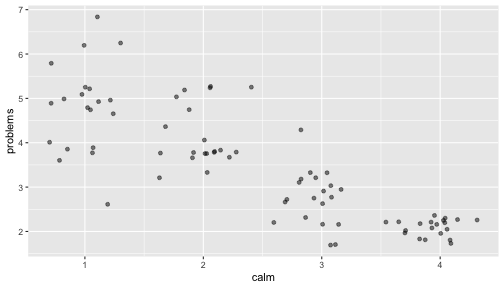
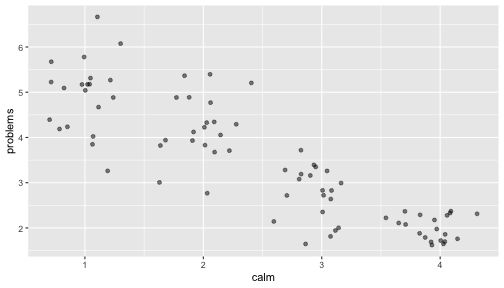
bootstrapping lecture

diff --git a/lectures/18-bootstrapping.html b/lectures/18-bootstrapping.html
@@ -1,9 +1,9 @@
 <!DOCTYPE html>
 <html lang="" xml:lang="">
   <head>
-    <title>Bootstrapping</title>
+    <title>Random &amp; Resampling</title>
     <meta charset="utf-8" />
-    <script src="libs/header-attrs-2.7/header-attrs.js"></script>
+    <script src="libs/header-attrs-2.10/header-attrs.js"></script>
     <link href="libs/remark-css-0.0.1/default.css" rel="stylesheet" />
     <link href="libs/remark-css-0.0.1/rladies.css" rel="stylesheet" />
     <link href="libs/remark-css-0.0.1/rladies-fonts.css" rel="stylesheet" />
@@ -13,7 +13,7 @@
     <textarea id="source">
 class: center, middle, inverse, title-slide
 
-# Bootstrapping
+# Random &amp; Resampling
 
 ---
 
@@ -30,7 +30,7 @@ Logistic Regression
 Robust estimation
 
 * Weighted Least Squares
-* __Bootstrapping__
+* __Resampling methods, Bootstrapping__
 
 ---
 
@@ -84,7 +84,7 @@ head(ols_aug)
 ```
 
 ```
-## # A tibble: 6 x 8
+## # A tibble: 6 × 8
 ##   problems  calm .fitted .resid   .hat .sigma .cooksd .std.resid
 ##      &lt;dbl&gt; &lt;dbl&gt;   &lt;dbl&gt;  &lt;dbl&gt;  &lt;dbl&gt;  &lt;dbl&gt;   &lt;dbl&gt;      &lt;dbl&gt;
 ## 1        4 1.06     4.87 -0.872 0.0326  0.665 0.0296      -1.33 
@@ -170,7 +170,7 @@ tidy(ols.model)
 ```
 
 ```
-## # A tibble: 2 x 5
+## # A tibble: 2 × 5
 ##   term        estimate std.error statistic  p.value
 ##   &lt;chr&gt;          &lt;dbl&gt;     &lt;dbl&gt;     &lt;dbl&gt;    &lt;dbl&gt;
 ## 1 (Intercept)     5.94    0.182       32.6 3.54e-47
@@ -184,7 +184,7 @@ tidy(wls.model)
 ```
 
 ```
-## # A tibble: 2 x 5
+## # A tibble: 2 × 5
 ##   term        estimate std.error statistic  p.value
 ##   &lt;chr&gt;          &lt;dbl&gt;     &lt;dbl&gt;     &lt;dbl&gt;    &lt;dbl&gt;
 ## 1 (Intercept)    5.64     0.182       30.9 1.60e-45
@@ -205,6 +205,42 @@ Use when...
 - Dealing with heteroscedasticity
 - You know already that points should not be treated equally (some should be weighed more than others); do you know that some of your data was measured with less error than other data?
 
+
+---
+## What is Sampling?
+
+- It is nearly impossible to survey every person in the population we are interested in
+
+
+- We take a random sample from the population
+
+- We calculate a statistic (mean, median, etc.)
+
+- *In theory*, we would draw another random sample. But we often can't do that so we
+
+- Luckily, a lot of our statistics follow well-defined distributions, and we can use those distribution properties to estimate the population parameters
+
+---
+## What is Resampling?
+
+- The problem with sampling as we defined previously is that we only actually have 1 estimate of the population parameter
+
+- We don't have a very good sense of the precision of that estimated population parameter
+
+- *In theory*, we can use something like the standard error of the mean, but that also has a lot of assumptions built in. 
+
+--
+
+- **Resampling** methods let us re-estimate our population parameter multiple times *from the same dataset*
+
+- This gives us more accurate estimates and more thorough picture of precision
+
+---
+## Resampling
+
+- Bootstrapping
+- Jacknifing (very similar, won't cover)
+- Permutation testing (you will cover in Research Methods with Ian)
 
 ---
 ## Bootstrapping
@@ -241,55 +277,31 @@ Imagine you had a sample of 6 people: Rachel, Monica, Phoebe, Joey, Chandler, an
 
 
 ```
-## [1] "Phoebe" "Monica" "Rachel" "Rachel" "Joey"   "Ross"
+## [1] "Chandler" "Ross"     "Phoebe"   "Monica"   "Rachel"   "Monica"
 ```
 
 ```
-## [1] 67.66667
+## [1] 68
 ```
 
 ```
-## [1] "Phoebe" "Rachel" "Monica" "Phoebe" "Phoebe" "Phoebe"
+## [1] "Rachel"   "Ross"     "Rachel"   "Chandler" "Ross"     "Monica"
 ```
 
 ```
-## [1] 67
+## [1] 68.83333
 ```
 
 ```
-## [1] "Joey"     "Phoebe"   "Monica"   "Monica"   "Chandler" "Joey"
+## [1] "Rachel"   "Chandler" "Chandler" "Phoebe"   "Monica"   "Monica"
 ```
 
 ```
-## [1] 68.33333
+## [1] 67.83333
 ```
 
 ```
-## [1] "Joey"     "Joey"     "Chandler" "Ross"     "Chandler" "Ross"
-```
-
-```
-## [1] 71.66667
-```
-
-```
-## [1] "Rachel" "Joey"   "Phoebe" "Ross"   "Monica" "Monica"
-```
-
-```
-## [1] 67.66667
-```
-
-```
-## [1] "Rachel" "Rachel" "Rachel" "Monica" "Rachel" "Joey"
-```
-
-```
-## [1] 65.83333
-```
-
-```
-## [1] "Monica"   "Monica"   "Joey"     "Chandler" "Joey"     "Ross"
+## [1] "Phoebe" "Phoebe" "Ross"   "Joey"   "Phoebe" "Phoebe"
 ```
 
 ```
@@ -297,7 +309,31 @@ Imagine you had a sample of 6 people: Rachel, Monica, Phoebe, Joey, Chandler, an
 ```
 
 ```
-## [1] "Ross"     "Monica"   "Chandler" "Joey"     "Monica"   "Joey"
+## [1] "Chandler" "Ross"     "Ross"     "Joey"     "Rachel"   "Chandler"
+```
+
+```
+## [1] 70.83333
+```
+
+```
+## [1] "Rachel"   "Chandler" "Ross"     "Chandler" "Rachel"   "Joey"
+```
+
+```
+## [1] 69.5
+```
+
+```
+## [1] "Phoebe"   "Rachel"   "Chandler" "Ross"     "Monica"   "Joey"
+```
+
+```
+## [1] 68.83333
+```
+
+```
+## [1] "Ross"     "Chandler" "Phoebe"   "Chandler" "Rachel"   "Rachel"
 ```
 
 ```
@@ -632,12 +668,14 @@ Bootstrapping will NOT help you deal with:
 ---
 class: inverse
 
-## 3 more to go...
+## 2 more to go...
 
 Yarkoni and Westfall (2017) and the lessons of machine learning
 
 READ THE PAPER
 
+
+2 more lectures + 1 review + 1 exam
     </textarea>
 <style data-target="print-only">@media screen {.remark-slide-container{display:block;}.remark-slide-scaler{box-shadow:none;}}</style>
 <script src="https://remarkjs.com/downloads/remark-latest.min.js"></script>

diff --git a/index.html b/index.html
@@ -315,6 +315,9 @@ $(document).ready(function () {
     <li>
       <a href="lectures/logistic-regression-lecture.html">21-Logistic</a>
     </li>
+    <li>
+      <a href="lectures/18-bootstrapping.html">22-Resampling</a>
+    </li>
   </ul>
 </li>
 <li>

diff --git a/homework.html b/homework.html
@@ -390,6 +390,9 @@ div.tocify {
     <li>
       <a href="lectures/logistic-regression-lecture.html">21-Logistic</a>
     </li>
+    <li>
+      <a href="lectures/18-bootstrapping.html">22-Resampling</a>
+    </li>
   </ul>
 </li>
 <li>

diff --git a/lectureVideos.html b/lectureVideos.html
@@ -390,6 +390,9 @@ div.tocify {
     <li>
       <a href="lectures/logistic-regression-lecture.html">21-Logistic</a>
     </li>
+    <li>
+      <a href="lectures/18-bootstrapping.html">22-Resampling</a>
+    </li>
   </ul>
 </li>
 <li>

diff --git a/schedule.html b/schedule.html
@@ -390,6 +390,9 @@ div.tocify {
     <li>
       <a href="lectures/logistic-regression-lecture.html">21-Logistic</a>
     </li>
+    <li>
+      <a href="lectures/18-bootstrapping.html">22-Resampling</a>
+    </li>
   </ul>
 </li>
 <li>
